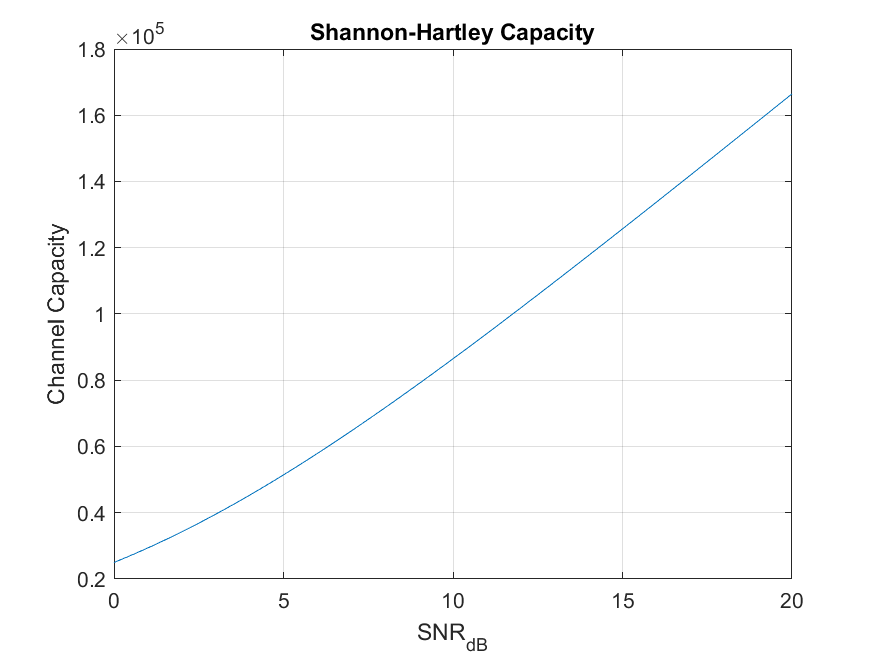
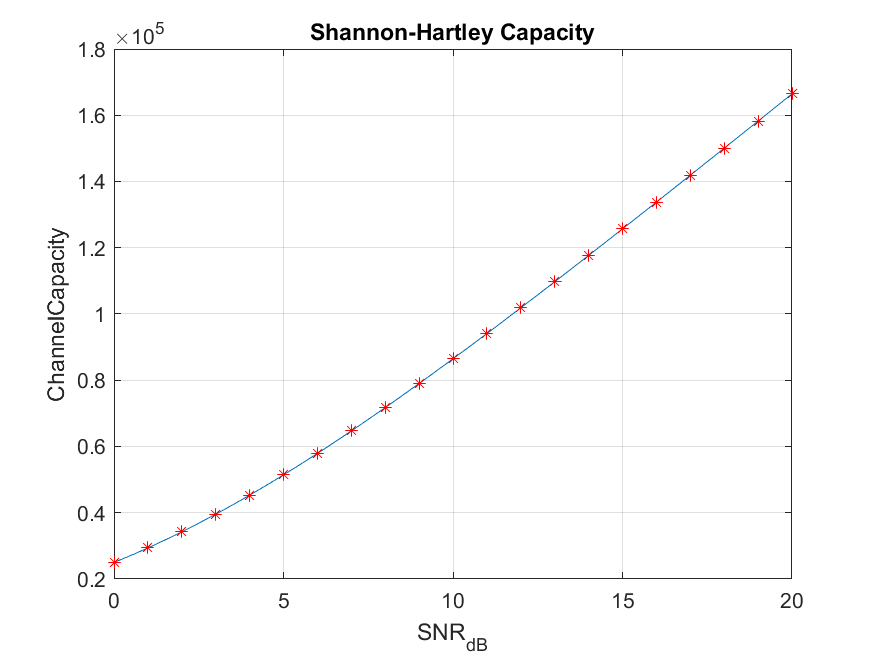
feat: More things

diff --git a/friisequation.tex b/friisequation.tex
@@ -1,0 +1,47 @@
+\subsection{FRIIS Equation and Shannon-Hartley Capacity}
+\subsubsection{FRIIS Equation}
+We use FRIIS equation to calculate the \textbf{reception's power}, we use the following parameters:
+
+\begin{align*}
+	G_{Tx}= 3dBi\\
+	G_{Rx}= 3dBi\\
+	c = 3x10^8 \frac{m}{s} \\
+	fc = 433MHz\\
+	P_{Tx} = 40dBm\\
+	Sensibility = -106dBm
+\end{align*}
+
+And FRIIS equation:
+
+\begin{equation}
+	P_{Rx} = P_{Tx} + G_{Tx} + 20log_{10}(\frac{c}{fc}) -20log(4\pi r)
+\end{equation}
+
+We got the next result:
+
+\begin{figure}[!htbp]
+	\centering
+	\includegraphics[width=5cm]{images/friis.png}
+	\caption{Result of $P_{Tx}$}
+\end{figure}
+
+As we can see, our receptor could receive transmission in the distance that we testing because the sensibility is $-106dBm$. But in our testing, show us how the channel disturbed our information while it was travelling.
+
+\subsubsection{Shannon-Hartley Capacity}
+We use Shannon-Hartley ecuation to calculate Channel's Capacity. We consider a bandwidth of $25kHz$ because the frecuency operation that we worked using this channel size. %Referencia al doc ese
+
+Shannong-Hartley Capacity Equation
+\begin{equation}
+	C = Blog_{2}(1+S/N)\\
+\end{equation}
+
+We got the next results:
+
+\begin{figure}[!htbp]
+	\centering
+	\includegraphics[width=5cm]{images/shannon_capacity.png}
+	\caption{Shannon Capacity.}
+	\label{fig:shannon}
+\end{figure}
+
+Figure \ref{fig:shannon}, show us, as a we expected, while the SNR are increasing, the channel capacity increases, in this practice we noticed that when we separated the transmisor and receptor, because we have another signals interfering like WIFI, LTE, 5G, microwaves, walls, etc. 

diff --git a/testing_tranmission.tex b/testing_tranmission.tex
@@ -61,6 +61,7 @@ This are the results for the CRC correction seen on Arduino console.
 		\end{subfigure}
 	\end{tabular}
 	\caption{Distance 5m}
+	\label{fig:test5m}
 \end{figure}
 
 \newpage
@@ -77,6 +78,7 @@ This are the results for the CRC correction seen on Arduino console.
 		\end{subfigure}
 	\end{tabular}
 	\caption{Distance 10m}
+	\label{fig:test10m}
 \end{figure}
 
 \begin{figure}[!htbp]
@@ -107,4 +109,7 @@ This are the results for the CRC correction seen on Arduino console.
 		\end{subfigure}
 	\end{tabular}
 	\caption{Distance 20m}
+	\label{fig:test20m}
 \end{figure}
+
+The previous results show us, that the CRC error detection are correct, and the polynomials that we implemented are efective against medium effects. We can see in Figure \ref{fig:test20m} that $P=1001$ detect less corrupted packages than $P=11001$.Also, we received less packages while we were increasing the distance, this showed between Figure \ref{fig:test5m} and Figure \ref{fig:test10m} where we receive more than 500 packages while the other case whe received less than 150 packages, and we could detect more errors.

diff --git a/main.tex b/main.tex
@@ -64,7 +64,7 @@
 	\maketitle
 	\begin{abstract}
 	In this practice we shall implement a CRC error detection with multiple polinomies P(x) in order to detect errors in a telecommunication system based on ARDUINO.
-	\end{abstract}
+	\end{abstract}10
 	\section{Motivation}	
 		It is important to understand and identify the components in each of the layers of the OSI model as it is the model of reference from long ago. Thus, it is really necessary to know the functions and applications of each layers not only theoretically but in real practices, an example of these components is the CRC that is used constantly in telecommunications systems and standards.
 	\input{arduino.tex}

diff --git a/shannon.m b/shannon.m
@@ -3,15 +3,19 @@ close all;
 clc;
 
 SNR= 0:0.01:20;
+SNR_points = 0:1:20;
 B=25e+03;
 snr=1*10.^(SNR/10);
-C = B*log2(1+snr);
+snr_points = 1*10.^(SNR_points/10);
+C = @ (snr) B*log2(1+snr);
 
 shannonImage = figure(1);
-plot(SNR, C);
+plot(SNR, C(snr));
 title('Shannon-Hartley Capacity');
 xlabel('SNR_{dB}');
-ylabel('Channel Capacity');
+ylabel('ChannelCapacity');
+hold on;
+plot(SNR_points, C(snr_points), 'r*');
 grid on;
 
 saveas(shannonImage, 'images/shannon_capacity.png');

diff --git a/friis_equation.m b/friis_equation.m
@@ -15,7 +15,7 @@ friis=figure(1);
 plot(d, Prx(d));
 title('Friis Equation');
 xlabel('Distance (m)');
-ylabel('Reception Power (W)');
+ylabel('Reception Power (dBm)');
 hold on
 plot(r,Prx(r),'r*');
 grid on;

diff --git a/Develop.tex b/Develop.tex
@@ -4,4 +4,4 @@
 \subsection{Frame Error Rate}
 \input{Results}
 \newpage
-\subsection{Friss Equation and Shannon-Hartley Capacity}
+\input{friisequation}
